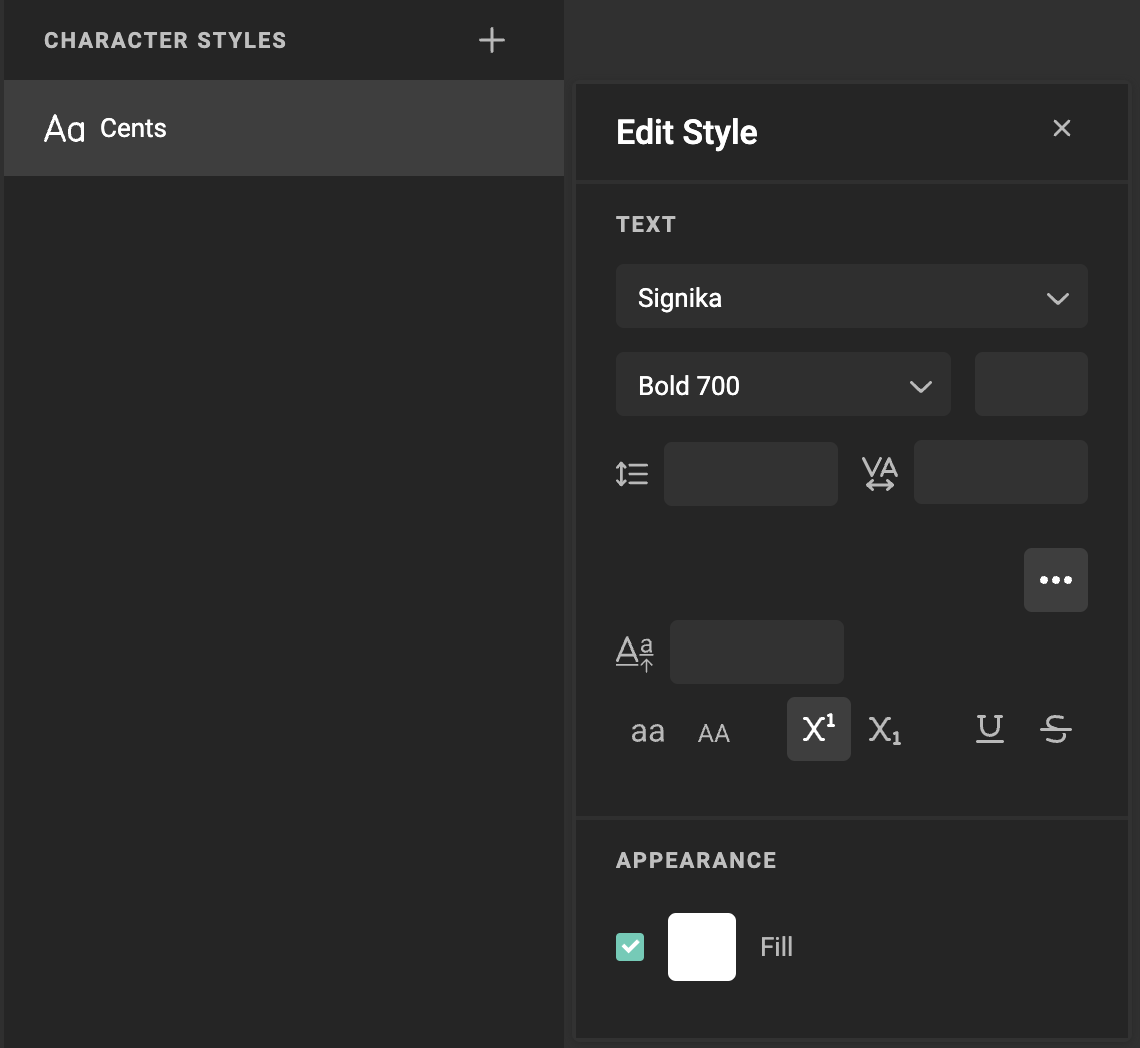
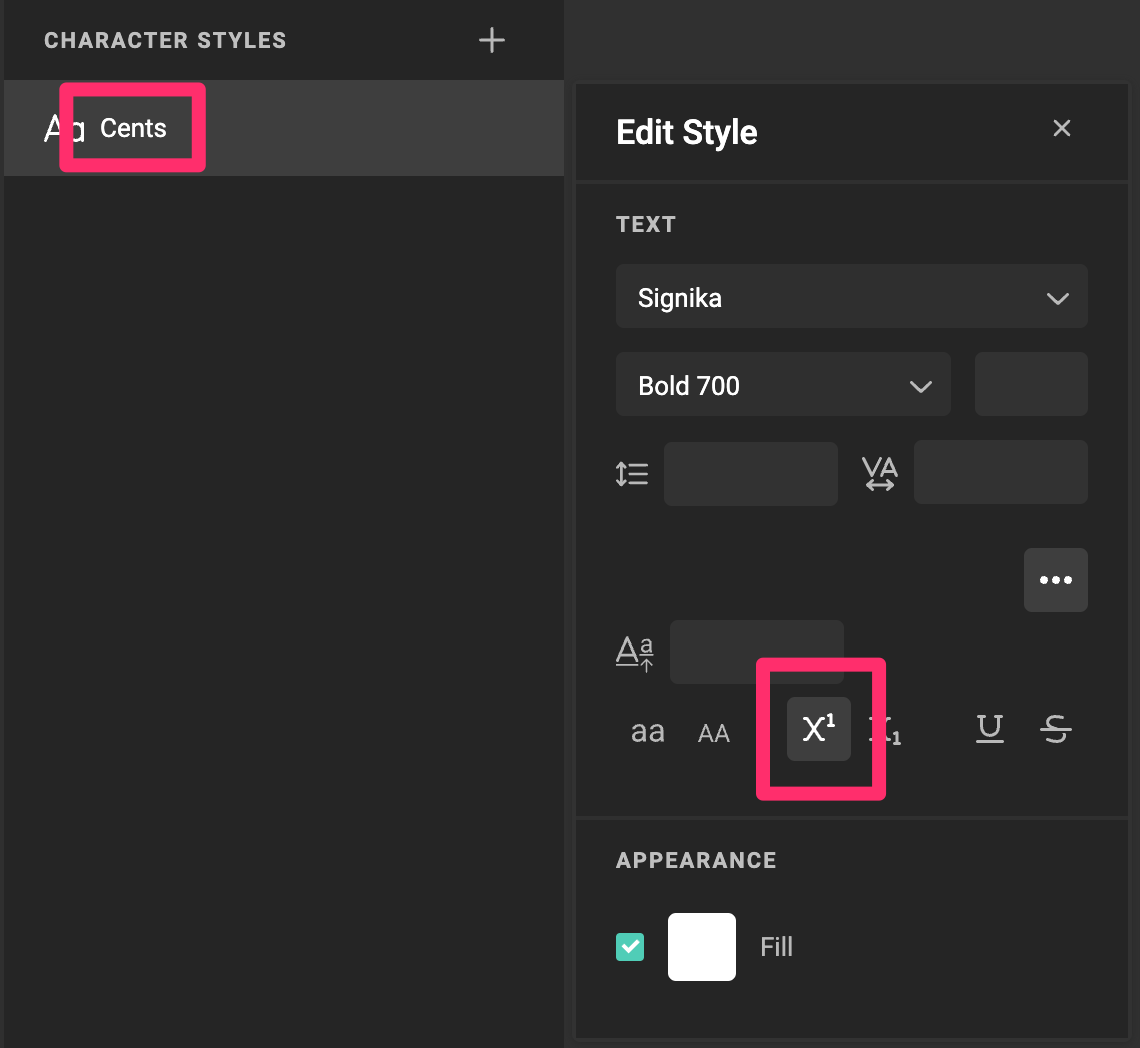
last tweaks

Changed region(s): [[0.6447, 0.6107, 0.7982, 0.7634], [0.0307, 0.0611, 0.1842, 0.1832], [0.5219, 0.8855, 0.5833, 0.916]]

diff --git a/docs/GraFx-Studio/guides/template-variables/number/index.md b/docs/GraFx-Studio/guides/template-variables/number/index.md
@@ -50,13 +50,14 @@ A specific character style is defined and has the property to show as "Superscri
 
 ![screenshot-full](ds2.png)
 
-The variable decimal setting shows the decimals will use this character setting for the decimal part.
+The 'decimal' character style "Cents" is set to "Superscript" to use it as character style for the decimal part.
+
+![screenshot-full](ds3.png)
 
 If you want to use the decimal character style, you need to make sure that there are no style overrides on the number variable (you can use the "Clear style overrides" button in the text properties panel to remove the style overrides)
 
 If a character style is already applied, it is locally replaced by the decimal character style
 
-![screenshot-full](ds3.png)
 
 #### Decimal Separator
 
